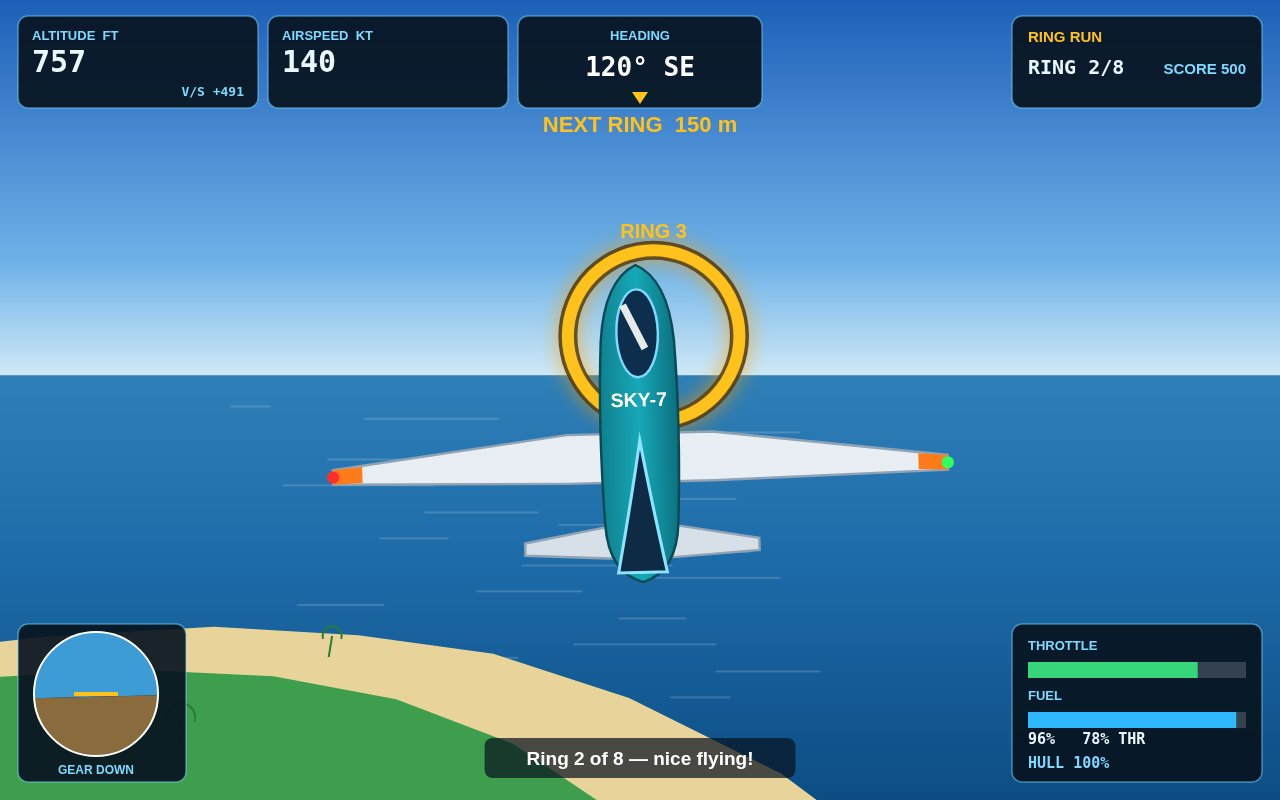
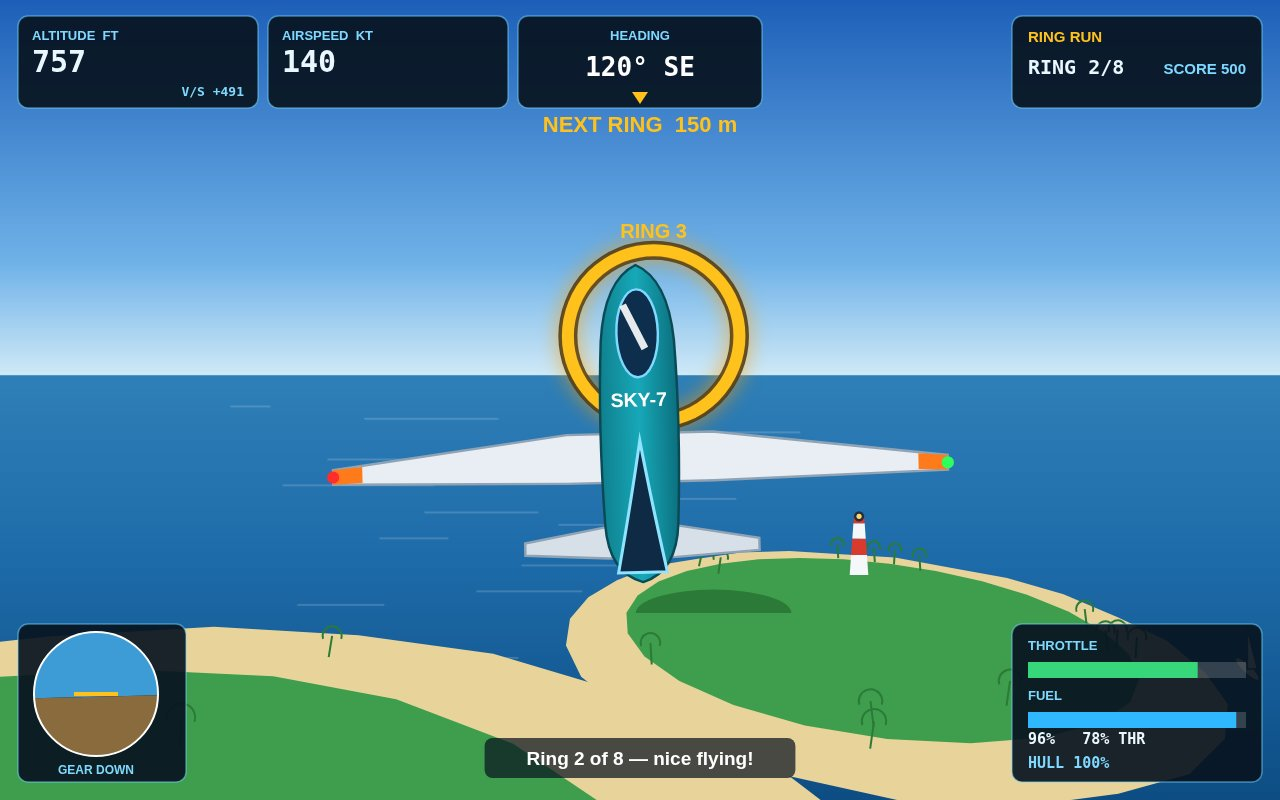
R3: Beacon Rock lighthouse island + sailboats — cover now shows plane, ring and a destination

Changed region(s): [[0.4062, 0.625, 0.9062, 1.0]]

diff --git a/game/src/render.js b/game/src/render.js
@@ -2,7 +2,7 @@
 // Everything is drawn on one canvas: sky, sea, islands, runway, rings, the Skylark herself,
 // then the HUD — altitude, speed, heading, throttle, fuel and the next ring — big enough to
 // read when the screenshot is shrunk to a contact sheet.
-import { FLIGHT, MISSIONS, SCREENS, VIEW_H, VIEW_W, WORLD } from './config.js';
+import { BOATS, FLIGHT, LIGHTHOUSE, MISSIONS, SCREENS, VIEW_H, VIEW_W, WORLD } from './config.js';
 import { terrainHeightAt } from './world.js';
 
 const FOCAL = (VIEW_H / 2) / Math.tan((28 * Math.PI) / 180);
@@ -288,6 +288,93 @@ export function createRenderer(canvas) {
       ctx.beginPath();
       ctx.arc(base.x + palm.lean * h, base.y - h, h * 0.45, Math.PI * 0.9, Math.PI * 2.1);
       ctx.stroke();
+    }
+  }
+
+  /** The Beacon Rock lighthouse: a red-and-white striped tower with a lamp
+   *  room, drawn as a vertical billboard between its projected base and top. */
+  function drawLighthouse(basis) {
+    const groundY = terrainHeightAt(LIGHTHOUSE.x, LIGHTHOUSE.z);
+    const base = project({ x: LIGHTHOUSE.x, y: groundY, z: LIGHTHOUSE.z }, basis);
+    const top = project({ x: LIGHTHOUSE.x, y: groundY + LIGHTHOUSE.height, z: LIGHTHOUSE.z }, basis);
+    if (!base || !top) return;
+    const halfW = Math.max(2.5, 8 * base.scale);
+    const dx = top.x - base.x;
+    const dy = top.y - base.y;
+    const bands = [
+      { from: 0, to: 0.34, color: '#f4f8fb' },
+      { from: 0.34, to: 0.62, color: '#d83a2e' },
+      { from: 0.62, to: 0.88, color: '#f4f8fb' },
+      { from: 0.88, to: 1, color: '#d83a2e' },
+    ];
+    for (const band of bands) {
+      const x0 = base.x + dx * band.from;
+      const y0 = base.y + dy * band.from;
+      const x1 = base.x + dx * band.to;
+      const y1 = base.y + dy * band.to;
+      const w0 = halfW * (1 - 0.45 * band.from);
+      const w1 = halfW * (1 - 0.45 * band.to);
+      const px = -(y1 - y0);
+      const py = x1 - x0;
+      const len = Math.hypot(px, py) || 1;
+      const nx = px / len;
+      const ny = py / len;
+      ctx.fillStyle = band.color;
+      ctx.beginPath();
+      ctx.moveTo(x0 + nx * w0, y0 + ny * w0);
+      ctx.lineTo(x1 + nx * w1, y1 + ny * w1);
+      ctx.lineTo(x1 - nx * w1, y1 - ny * w1);
+      ctx.lineTo(x0 - nx * w0, y0 - ny * w0);
+      ctx.closePath();
+      ctx.fill();
+    }
+    ctx.fillStyle = '#22303e';
+    ctx.beginPath();
+    ctx.arc(top.x, top.y, Math.max(2.5, halfW * 0.55), 0, Math.PI * 2);
+    ctx.fill();
+    ctx.fillStyle = '#ffd76a';
+    ctx.beginPath();
+    ctx.arc(top.x, top.y, Math.max(1.5, halfW * 0.28), 0, Math.PI * 2);
+    ctx.fill();
+  }
+
+  /** Sailboats at anchor: a white hull along the boat's heading, with a
+   *  triangular sail rising from it. */
+  function drawBoats(basis) {
+    for (const boat of BOATS) {
+      const p = project({ x: boat.x, y: 1, z: boat.z }, basis);
+      if (!p) continue;
+      const s = p.scale;
+      if (s < 0.08) continue;
+      const rad = (boat.heading * Math.PI) / 180;
+      const ahead = project(
+        { x: boat.x + Math.sin(rad) * 20, y: 1, z: boat.z - Math.cos(rad) * 20 },
+        basis,
+      );
+      const angle = ahead ? Math.atan2(ahead.y - p.y, ahead.x - p.x) : 0;
+      const hullLen = Math.max(7, 24 * s);
+      const hullWid = Math.max(3, 7 * s);
+      ctx.save();
+      ctx.translate(p.x, p.y);
+      ctx.rotate(angle);
+      ctx.fillStyle = '#f4f8fb';
+      ctx.strokeStyle = '#33506b';
+      ctx.lineWidth = 1.5;
+      ctx.beginPath();
+      ctx.ellipse(0, 0, hullLen / 2, hullWid / 2, 0, 0, Math.PI * 2);
+      ctx.fill();
+      ctx.stroke();
+      ctx.rotate(-angle);
+      const mastH = Math.max(8, 30 * s);
+      ctx.fillStyle = '#ffffff';
+      ctx.beginPath();
+      ctx.moveTo(0, 0);
+      ctx.lineTo(0, -mastH);
+      ctx.lineTo(hullLen * 0.32, 0);
+      ctx.closePath();
+      ctx.fill();
+      ctx.stroke();
+      ctx.restore();
     }
   }
 
@@ -671,6 +758,8 @@ export function createRenderer(canvas) {
     drawRunway(WORLD.homeRunway, basis, '09');
     drawRunway(WORLD.islandStrip, basis, '02');
     drawPalms(state, basis);
+    drawLighthouse(basis);
+    drawBoats(basis);
     drawRings(state, basis, mission);
     if (screen !== SCREENS.TITLE) drawPlane(state);
     if (screen === SCREENS.PLAY || screen === SCREENS.PAUSED) drawHud(state, mission, ui);

diff --git a/game/src/config.js b/game/src/config.js
@@ -34,8 +34,19 @@ export const WORLD = {
     { x: 1500, z: -620, radius: 520, peak: 70, name: 'Gull Rock' },
     { x: -1180, z: 760, radius: 430, peak: 55, name: 'Palm Cay' },
     { x: -350, z: -1350, radius: 300, peak: 45, name: 'Turtle Shoal' },
+    { x: 1700, z: 100, radius: 250, peak: 45, name: 'Beacon Rock' },
   ],
 };
+
+// Scenery landmarks, pure decoration — no collision, no flight-model effect.
+// A striped lighthouse on Beacon Rock, dead ahead on the cover shot's line of
+// flight, and boats at anchor in the lagoon.
+export const LIGHTHOUSE = { x: 1700, z: 100, height: 50 };
+export const BOATS = [
+  { x: 1400, z: -80, heading: 40 },
+  { x: 1500, z: 300, heading: 140 },
+  { x: 800, z: 520, heading: 95 },
+];
 
 // Missions: same loop (take off, fly the rings, land) with a different goal each time.
 export const MISSIONS = [
